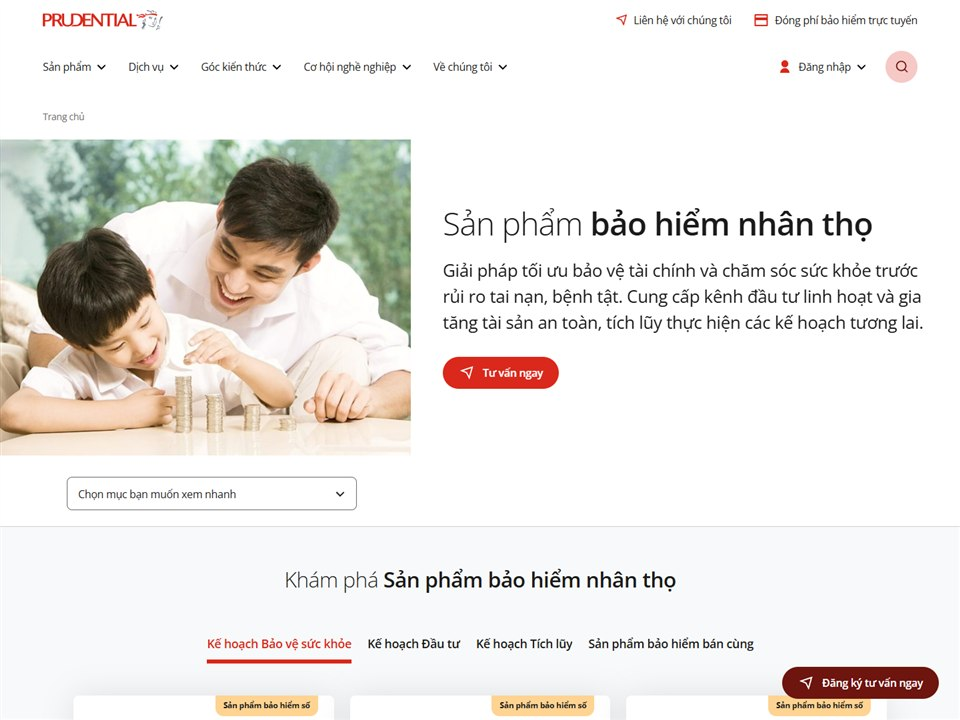
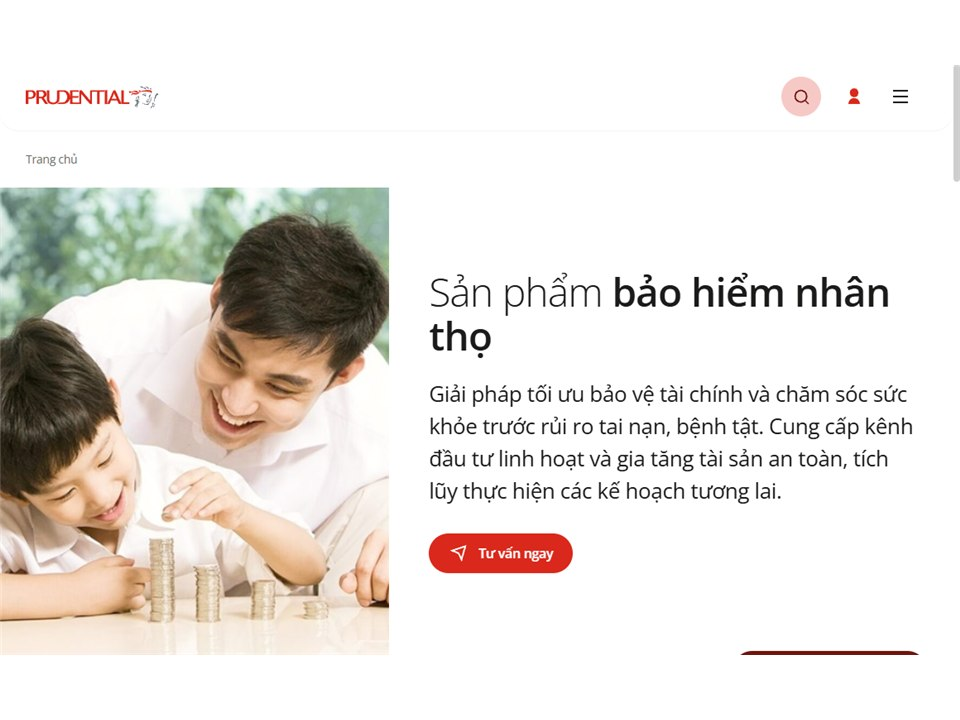
Update Prudential thumbnail

diff --git a/portfolio-design/work/work2.dc.html b/portfolio-design/work/work2.dc.html
@@ -305,7 +305,7 @@ class Component extends DCLogic {
       { index:'16', thumb:'../assets/projects/16.jpg?v=2', type:'EdTech', year:'Figma', name:'EdTech Feature Flow', display:'EDTECH', role:'UX Flow · EdTech · Product Design', description:'Feature flows for a learning product (feature flow only).', stack:['Figma','UX Flow','EdTech'], tags:['EdTech','Feature Flow'], accent:'#E9A93C', url:'https://www.figma.com/design/oQPIZbIXvB94SeEjdv45h7/Ed-Tech?node-id=1215-11218&t=SB56xqu3VG6gKBpn-1' },
       { index:'17', thumb:'../assets/projects/17.jpg?v=1', type:'Interactive Website', year:'Live', name:'Jaguar Dark Heritage', display:'JAGUAR', role:'Motion · Web Design · Rebrand', description:'Interactive car rebrand site with scroll-driven animation and rich media.', stack:['Web','Motion','Scroll Animation'], tags:['Automotive','Rebrand'], accent:'#2DD4BF', url:'https://ydangishere.github.io/interactive-web/car/' },
       { index:'18', thumb:'../assets/projects/18.jpg?v=2', type:'Game Webstore', year:'Figma', name:'Arcane Rush Webstore', display:'ARCANE', role:'Game UI · Webstore · UX Research', description:'Webstore offer design for a mobile game, backed by research on offers in other top games.', stack:['Figma','Game UI','UX Research'], tags:['Game','Webstore'], accent:'#6FB97F', url:'https://www.figma.com/design/fvBIoRQW69lgoEAGdkzwNu/AR-Webstore--Copy-?node-id=1495-18338&t=meSZuSKPHqWelyzJ-1' },
-      { index:'19', thumb:'../assets/projects/19.jpg?v=1', type:'Insurance Website', year:'Live', name:'Prudential Life Insurance', display:'PRU', role:'Insurance · Web Design · UX/UI', description:'Life insurance product pages that help customers compare plans and request advice.', stack:['Web','UX/UI','Insurance'], tags:['Insurance','Website'], accent:'#E9A93C', url:'https://www.prudential.com.vn/vi/san-pham-bao-hiem-nhan-tho-prudential/' }
+      { index:'19', thumb:'../assets/projects/19.jpg?v=2', type:'Insurance Website', year:'Live', name:'Prudential Life Insurance', display:'PRU', role:'Insurance · Web Design · UX/UI', description:'Life insurance product pages that help customers compare plans and request advice.', stack:['Web','UX/UI','Insurance'], tags:['Insurance','Website'], accent:'#E9A93C', url:'https://www.prudential.com.vn/vi/san-pham-bao-hiem-nhan-tho-prudential/' }
     ];
     this._projectOpen = false;
   }

diff --git a/portfolio-design/index.html b/portfolio-design/index.html
@@ -1016,7 +1016,7 @@
 
       <a data-card="" data-stagger-item="" href="https://www.prudential.com.vn/vi/san-pham-bao-hiem-nhan-tho-prudential/" target="_blank" rel="noopener noreferrer" style="display:block; flex:0 0 clamp(280px,28vw,340px); scroll-snap-align:start; cursor:pointer; color:inherit; text-decoration:none; transition:transform .45s ease;" style-hover="transform:translateY(-8px);">
         <div style="aspect-ratio:4/3; border:1px solid rgba(255,255,255,0.12); background:#141414; position:relative; overflow:hidden;">
-          <img src="./assets/projects/19.jpg?v=1" alt="Prudential Life Insurance Products preview" loading="lazy" decoding="async" style="position:absolute; inset:0; width:100%; height:100%; object-fit:cover; object-position:top center; display:block;"><div aria-hidden="true" style="position:absolute; inset:0; background:linear-gradient(180deg, rgba(10,10,10,0) 45%, rgba(10,10,10,0.78) 100%);"></div>
+          <img src="./assets/projects/19.jpg?v=2" alt="Prudential Life Insurance Products preview" loading="lazy" decoding="async" style="position:absolute; inset:0; width:100%; height:100%; object-fit:cover; object-position:top center; display:block;"><div aria-hidden="true" style="position:absolute; inset:0; background:linear-gradient(180deg, rgba(10,10,10,0) 45%, rgba(10,10,10,0.78) 100%);"></div>
           <div style="position:absolute; left:18px; bottom:14px; font-family:'JetBrains Mono',monospace; font-size:40px; font-weight:600; color:#E9A93C; opacity:0.85;">19</div>
         </div>
         <div style="font-family:'JetBrains Mono',monospace; font-size:12px; letter-spacing:0.08em; color:#E9A93C; margin-top:20px;">Insurance Website &middot; Live</div>
